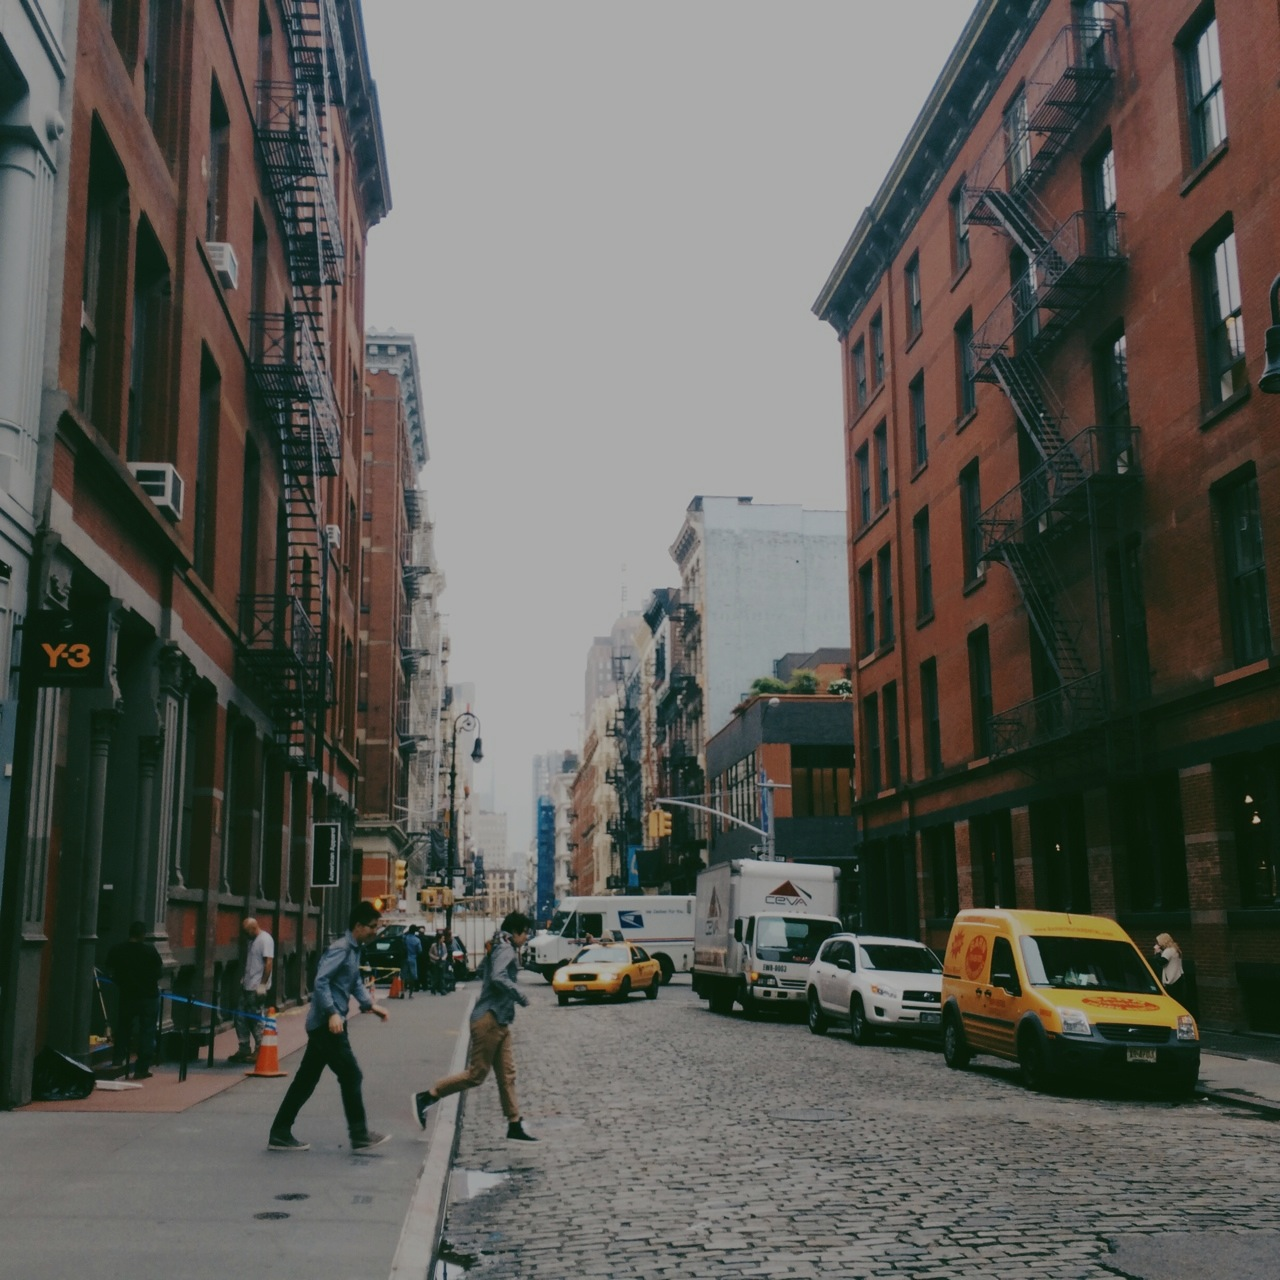
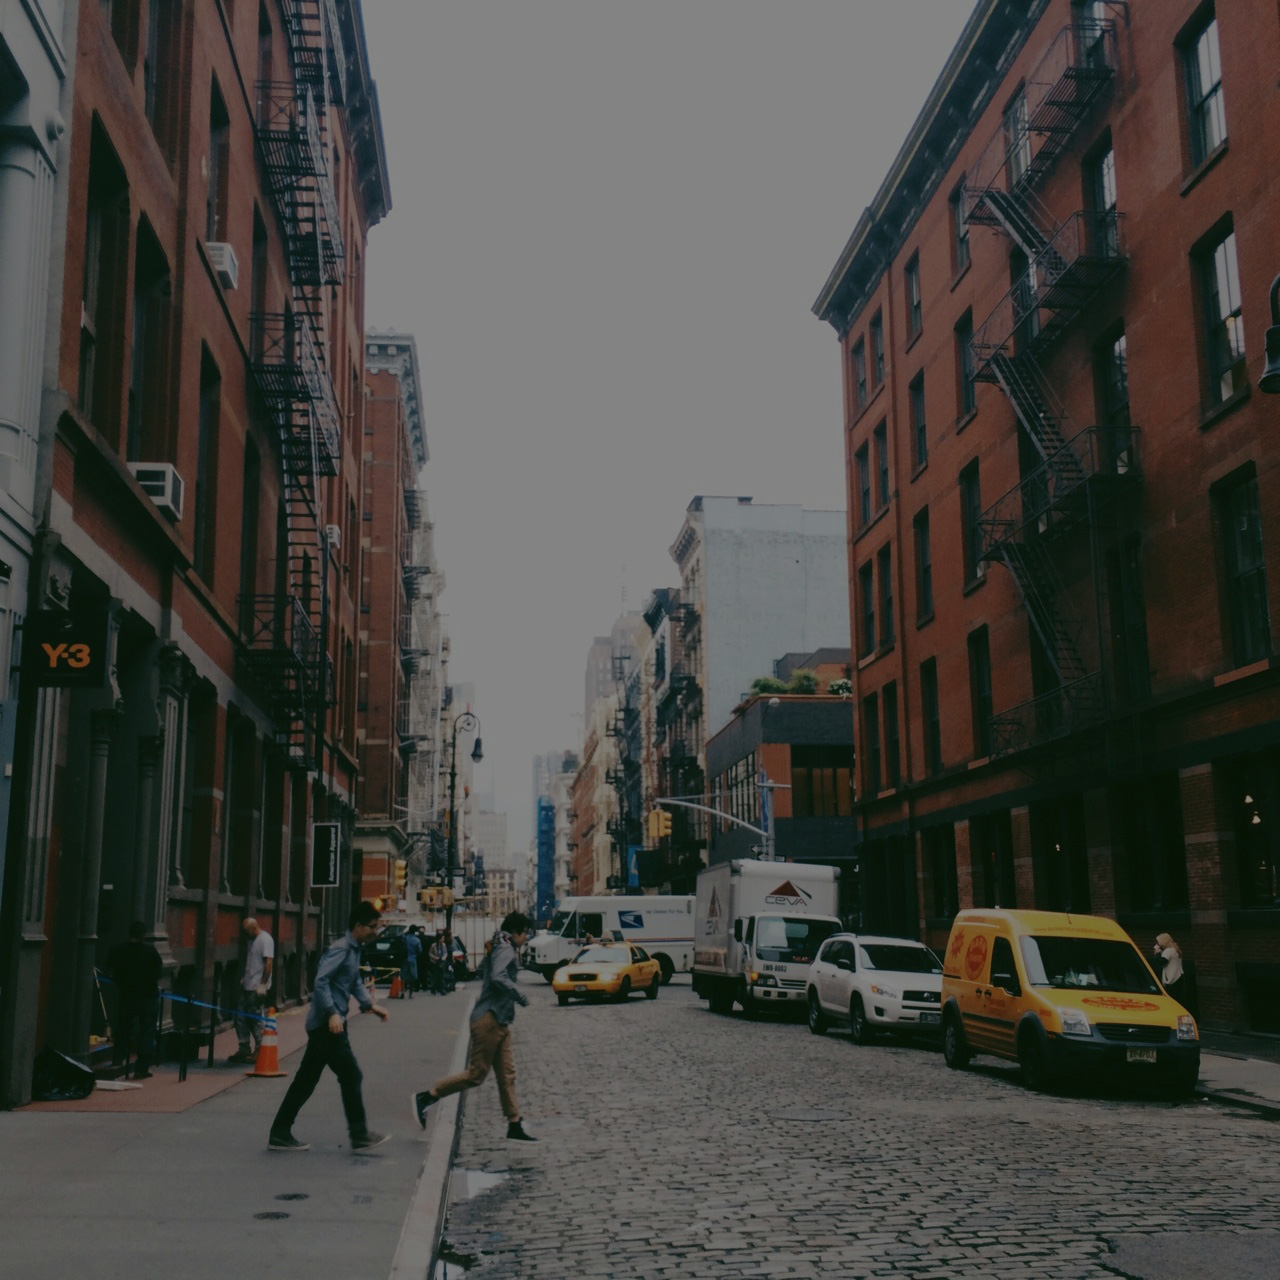
More copyedits, contrast

diff --git a/index.html b/index.html
@@ -1,6 +1,6 @@
 <!DOCTYPE html><html class=no-js><head><meta charset=utf-8><title>Escalate Writing: Soon, Something Different</title><meta name=description content=""><meta name=viewport content="width=device-width"><link rel="shortcut icon" href=/eb1017c2.favicon.ico><!-- Place favicon.ico and apple-touch-icon.png in the root directory --><link rel=stylesheet href=styles/a9c07141.main.css><script src=scripts/vendor/c9ea6662.modernizr.js></script><link rel=stylesheet href=//brick.a.ssl.fastly.net/Alegreya:400,400i,700,700i/Alegreya+SC:400,700><link href="http://fonts.googleapis.com/css?family=Alegreya+SC:700" rel=stylesheet type=text/css><body><!--[if lt IE 10]>
             <p class="browsehappy">You are using an <strong>outdated</strong> browser. Please <a href="http://browsehappy.com/">upgrade your browser</a> to improve your experience.</p>
-        <![endif]--><iframe name=hidden_iframe id=hidden_iframe style=display:none></iframe><div id=static><h1 id=headline class=headline>Escalate</h1><div class=block><form action=https://script.google.com/macros/s/AKfycbxBENTXTz_GUdvPP6Giy6_hfRhwI6oWYOcO3I5JNrkqvESr9mjb/exec method=post target=hidden_iframe id=form><input type=email name=email id=email placeholder=Email><input name=silent id=silent style=display:none></form><h1 id=thank class=headline2 style=display:none>Thank you!</h1><div class=text-right><button class="btn btn-default" id=send>Request an Invite</button></div><div id=alert_placeholder></div><p id=byline>A writing platform that allows writers to collaborate and improve their work.</p></div><div class=readmore><a href=#blog id=read>Read More</a></div><span id=photocred>Photograph by Cody Min</span></div><div id=blog><div id=blog-wrap><div class=post><h1>Write; Edit; Share:</h1><h2 class=byline>Revise, then Publish</h2><hr><p>On the internet, sometimes hitting publish is the worst thing that can happen. The drafting process, editing, feedback, and revision, is undervalued. Writing – for class, for work, for life – seems like an automatic process, one which rewards damming up thoughts in our minds and then unleashing them all, at once, as words onto some page, digital or physical. There is an illusion that this is how good writing is produced: write quickly, publish quickly. Too often, getting published is conflated with an author having produced the best they could.</p><p>The later an author decides to edit his words, the greater the chance of regret. Escalate is a writing platform that rewards getting your thoughts onto the page, and then not hitting publish. The next step, we think, is sharing the piece with friends and colleagues, readers that you trust to be thoughtful and critical. We believe in letting a piece sit before hitting submit. Even if it is just for a little bit. And if others, a few trusted readers, can give you well-written and careful edits – from copyediting to feedback – there is a chance that this pause allows you to create a stronger piece, and publish a better story. We want Escalate to be the place for thoughtful writers to easily draft, save, share, and edit their pieces. To read and be read by a community of thoughtful people.</p><p>On Escalate, individual blogs and themed categories require sharing and feedback. We believe that pieces become stronger not only by community, but also by learning when to trust your judgment in the face of others, and when to revise your words when it becomes clear that what you thought was clear was not clear enough. Everyone on Escalate can immediately create their own personal blog. An author who has given useful feedback to enough writers can create and curate her own category (or categories), on whatever topic she wishes, and can edit or co-edit with as many people as she likes. If enough people care about each other’s writing and a particular topic to make time to write and edit each other’s work, we think the final reading experience will improve. And for those who might visit Escalate just to read, we hope you will see the difference. But we, on Escalate, want everyone to write.</p><p>One of the greatest freedoms of the internet is that it makes the power of writing available to everyone. We believe writing is a form of speech that is made for remembering. But writing is tough, and most writing is not worth remembering: What is the internet but a flood of words? This should stop no one from speaking instead of staying silent. But we believe that exercising freedom of speech does not just mean producing an endless stream of words. That is a good start. The fun, and the challenge, comes from speaking well, writing better, and finding readers you can trust, and trusting that if words are well said, they will be well read. Let’s escalate writing. Sign up, and we’ll show you what we’re talking about.</p></div></div><div class=text-center><a id=to-top href=#static><img src=/images/chevron.png></a></div></div><div class="modal fade" id=modal tabindex=-1 role=dialog aria-hidden=true><div class=modal-dialog><div class=modal-content><div class=modal-header><button type=button class=close data-dismiss=modal aria-hidden=true>&times;</button><h4 class=modal-title>Modal title</h4></div><div class=modal-body><p>One fine body&hellip;</p></div><div class=modal-footer><button type=button class="btn btn-default" data-dismiss=modal>Close</button> <button type=button class="btn btn-primary">Save changes</button></div></div><!-- /.modal-content --></div><!-- /.modal-dialog --></div><!-- /.modal --><script src=scripts/4776dee8.vendor.js></script><!-- Google Analytics: change UA-XXXXX-X to be your site's ID. --><script>(function(b,o,i,l,e,r){b.GoogleAnalyticsObject=l;b[l]||(b[l]=
+        <![endif]--><iframe name=hidden_iframe id=hidden_iframe style=display:none></iframe><div id=static><h1 id=headline class=headline>Escalate</h1><div class=block><form action=https://script.google.com/macros/s/AKfycbxBENTXTz_GUdvPP6Giy6_hfRhwI6oWYOcO3I5JNrkqvESr9mjb/exec method=post target=hidden_iframe id=form><input type=email name=email id=email placeholder=Email><input name=silent id=silent style=display:none></form><h1 id=thank class=headline2 style=display:none>Thank you!</h1><div class=text-right><button class="btn btn-default" id=send>Request an Invite</button></div><div id=alert_placeholder></div><p id=byline>A writing platform for feedback and editing</p></div><div class=readmore><a href=#blog id=read>Read More</a></div><span id=photocred>Photograph by Cody Min</span></div><div id=blog><div id=blog-wrap><div class=post><h1>Write; Edit; Share:</h1><h2 class=byline>Revise, then Publish</h2><hr><p>On the internet, sometimes hitting publish is the worst thing that can happen. The drafting process, editing, feedback, and revision, is undervalued. Writing – for class, for work, for life – seems like an automatic process, one which rewards damming up thoughts in our minds and then unleashing them all, at once, as words onto some page, digital or physical. There is an illusion that this is how good writing is produced: write quickly, publish quickly. Too often, getting published is conflated with an author having produced the best they could.</p><p>The later an author decides to edit his words, the greater the chance of regret. Escalate is a writing platform that rewards getting your thoughts onto the page, and then not hitting publish. The next step, we think, is sharing the piece with friends and colleagues, readers that you trust to be thoughtful and critical. We believe in letting a piece sit before hitting submit. Even if it is just for a little bit. And if others, a few trusted readers, can give you well-written and careful edits – from copyediting to feedback – there is a chance that this pause allows you to create a stronger piece, and publish a better story. We want Escalate to be the place for thoughtful writers to easily draft, save, share, and edit their pieces. To read and be read by a community of thoughtful people.</p><p>On Escalate, individual blogs and themed categories require sharing and feedback. We believe that pieces become stronger not only by community, but also by learning when to trust your judgment in the face of others, and when to revise your words when it becomes clear that what you thought was clear was not clear enough. Everyone on Escalate can immediately create their own personal blog. An author who has given useful feedback to enough writers can create and curate her own category (or categories), on whatever topic she wishes, and can edit or co-edit with as many people as she likes. If enough people care about each other’s writing and a particular topic to make time to write and edit each other’s work, we think the final reading experience will improve. And for those who might visit Escalate just to read, we hope you will see the difference. But we, on Escalate, want everyone to write.</p><p>One of the greatest freedoms of the internet is that it makes the power of writing available to everyone. We believe writing is a form of speech that is made for remembering. But writing is tough, and most writing is not worth remembering: What is the internet but a flood of words? This should stop no one from speaking instead of staying silent. But we believe that exercising freedom of speech does not just mean producing an endless stream of words. That is a good start. The fun, and the challenge, comes from speaking well, writing better, and finding readers you can trust, and trusting that if words are well said, they will be well read. Let’s escalate writing. Sign up, and we’ll show you what we’re talking about.</p></div></div><div class=text-center><a id=to-top href=#static><img src=/images/chevron.png></a></div></div><div class="modal fade" id=modal tabindex=-1 role=dialog aria-hidden=true><div class=modal-dialog><div class=modal-content><div class=modal-header><button type=button class=close data-dismiss=modal aria-hidden=true>&times;</button><h4 class=modal-title>Modal title</h4></div><div class=modal-body><p>One fine body&hellip;</p></div><div class=modal-footer><button type=button class="btn btn-default" data-dismiss=modal>Close</button> <button type=button class="btn btn-primary">Save changes</button></div></div><!-- /.modal-content --></div><!-- /.modal-dialog --></div><!-- /.modal --><script src=scripts/4776dee8.vendor.js></script><!-- Google Analytics: change UA-XXXXX-X to be your site's ID. --><script>(function(b,o,i,l,e,r){b.GoogleAnalyticsObject=l;b[l]||(b[l]=
             function(){(b[l].q=b[l].q||[]).push(arguments)});b[l].l=+new Date;
             e=o.createElement(i);r=o.getElementsByTagName(i)[0];
             e.src='//www.google-analytics.com/analytics.js';
